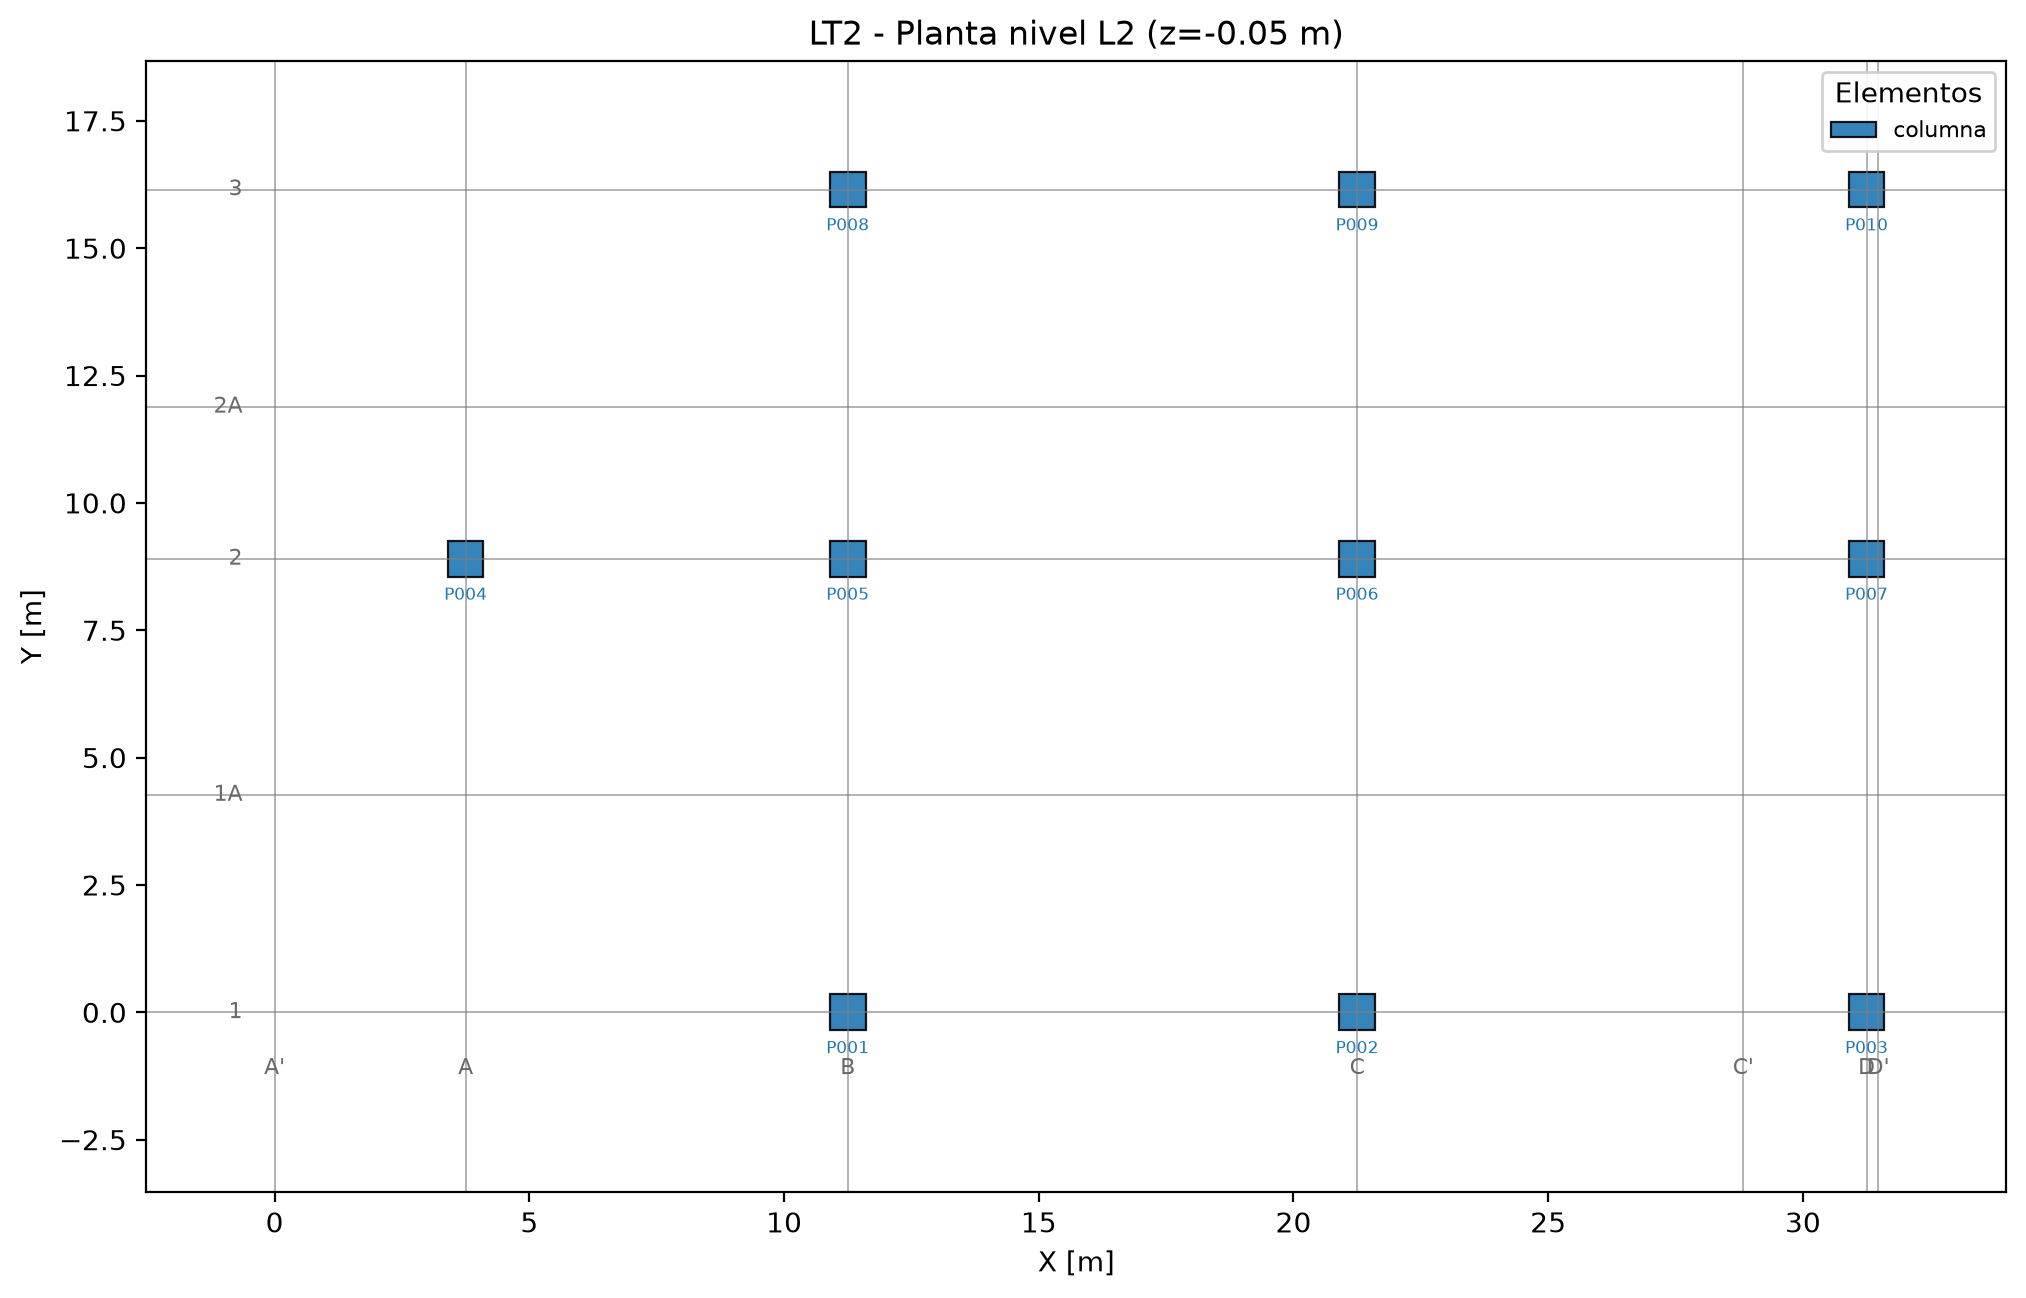
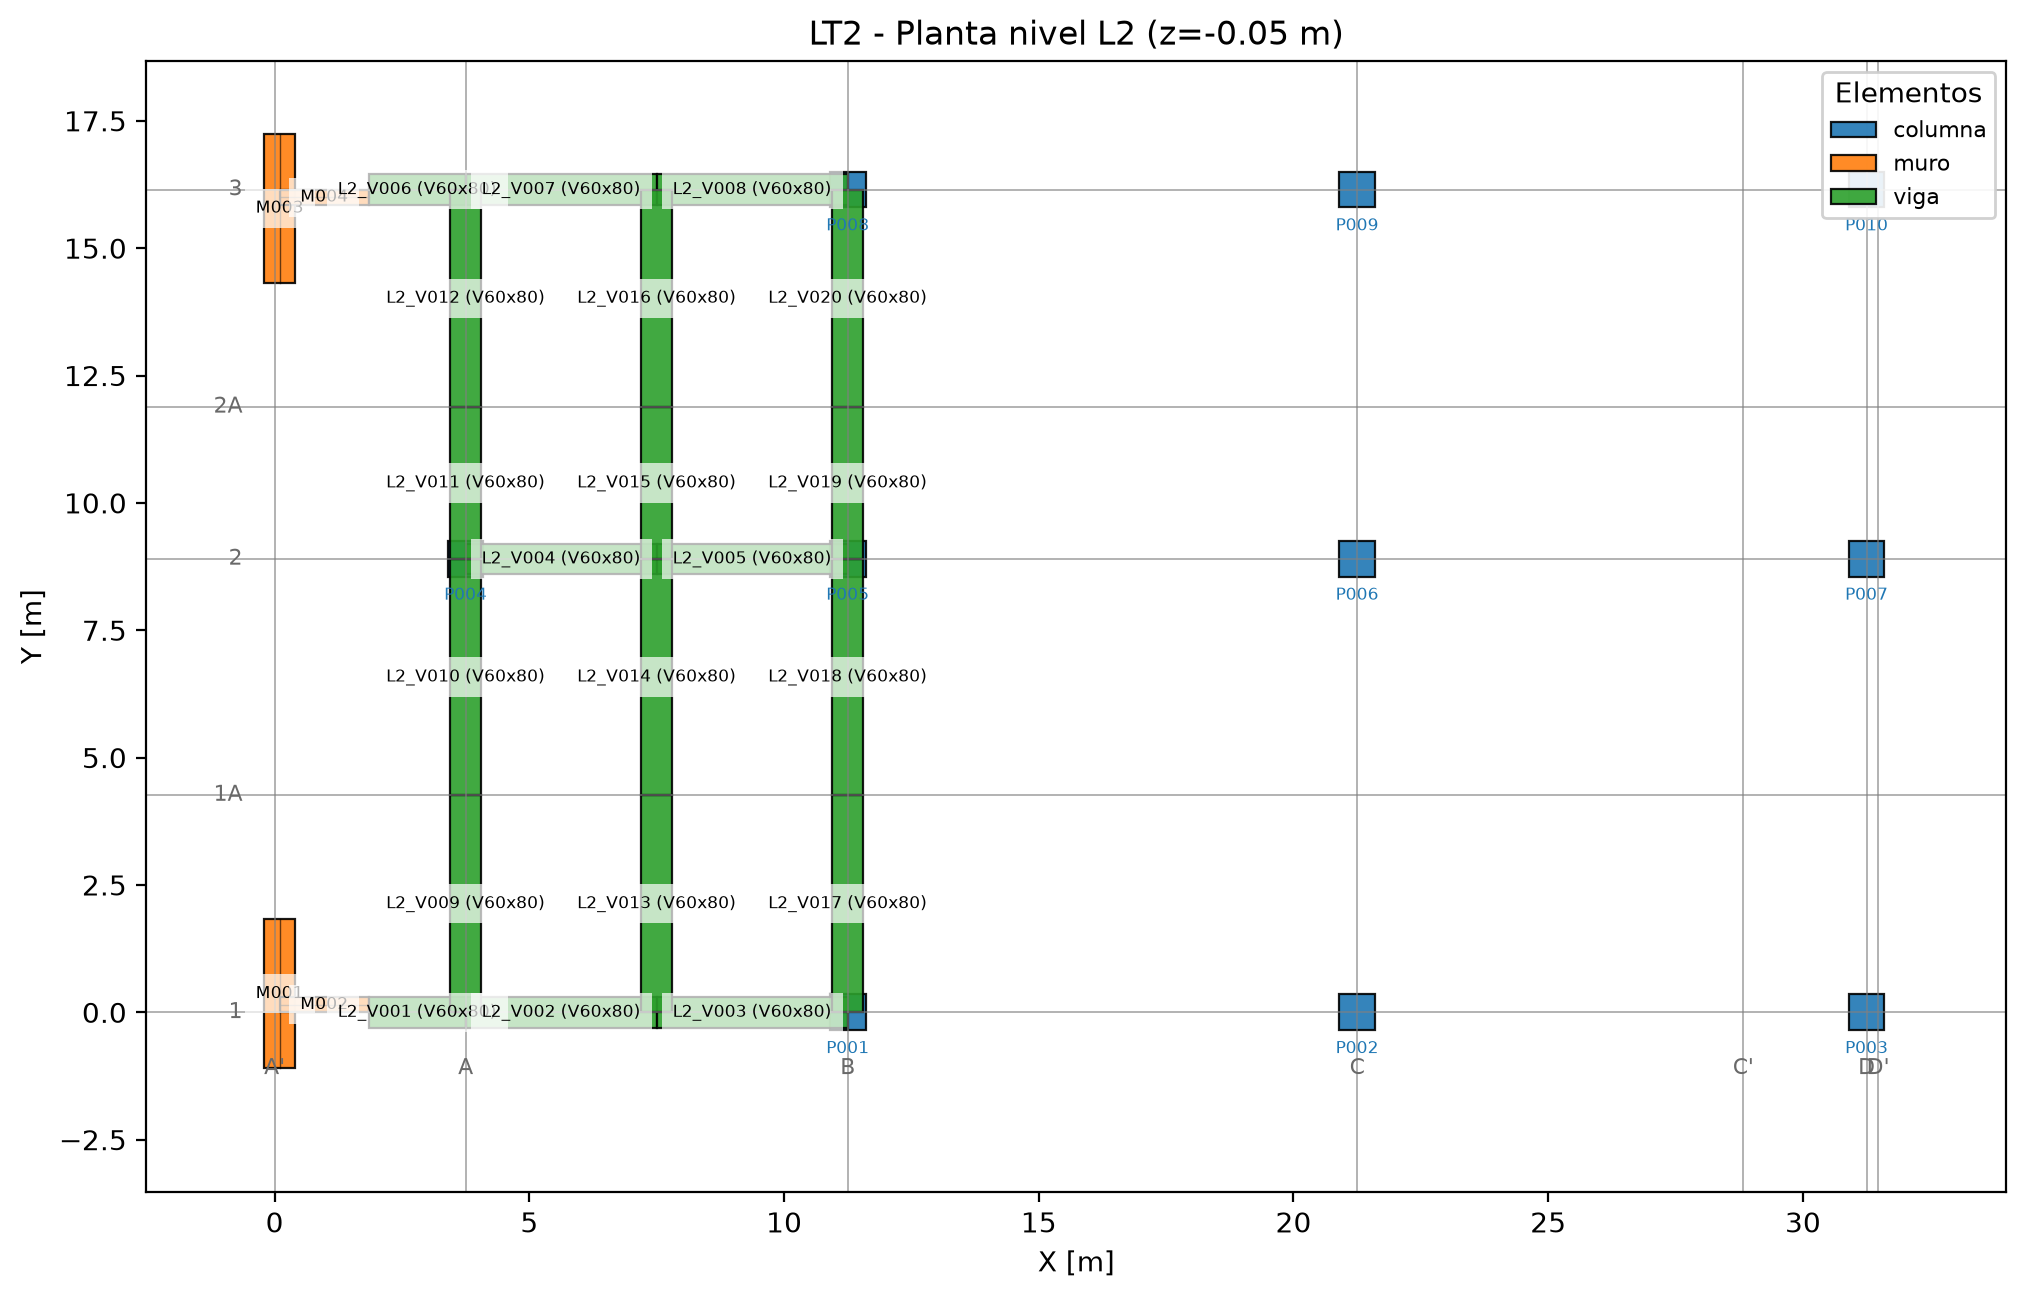
Modela vigas principales V60x80 del piso tipo LT2

Changed region(s): [[0.1244, 0.0924, 0.4664, 0.832], [0.9018, 0.0924, 0.964, 0.1849]]

diff --git a/src/check_beam_geometry.py b/src/check_beam_geometry.py
@@ -1,0 +1,180 @@
+"""Chequeos de la digitalizacion de vigas LT2.
+
+Solo lectura de data/geometry/beams_LT2.csv (con levels.csv y sections_LT2.csv).
+Para cada viga:
+  - longitud geometrica;
+  - IDs duplicados;
+  - vigas de longitud cero;
+  - niveles inexistentes;
+  - secciones inexistentes;
+  - coordenadas NaN;
+  - orientacion X/Y/inclinada;
+y ademas el numero de vigas por seccion y por nivel.
+
+No modifica datos.
+"""
+
+import math
+from pathlib import Path
+
+import numpy as np
+import pandas as pd
+
+ROOT = Path(__file__).resolve().parents[1]
+GEOM = ROOT / "data" / "geometry"
+SECT = ROOT / "data" / "sections"
+
+TOL_DUP = 1e-6
+TOL_ANGLE = 1e-3  # rad, ~0.057 deg
+
+
+def cfloat(value):
+    return pd.to_numeric(value, errors="coerce")
+
+
+def list_duplicates(values):
+    seen, dups = set(), []
+    for v in values:
+        s = str(v)
+        if s in seen and s not in dups:
+            dups.append(s)
+        seen.add(s)
+    return dups
+
+
+def beam_orientation(L, dx, dy):
+    theta = abs(math.atan2(dy, dx))
+    if theta <= TOL_ANGLE:
+        return "X"
+    if abs(math.pi / 2 - theta) <= TOL_ANGLE:
+        return "Y"
+    return "INCLINED"
+
+
+def main():
+    beams = pd.read_csv(GEOM / "beams_LT2.csv")
+    levels = pd.read_csv(GEOM / "levels.csv")
+    sections = pd.read_csv(SECT / "sections_LT2.csv")
+
+    z_level = set(levels["name"].astype(str))
+    section_ids = set(sections["section_id"].astype(str))
+
+    errors, warnings = [], []
+
+    def report(msg, is_error=True):
+        tag = "ERROR" if is_error else "WARN"
+        (errors if is_error else warnings).append(msg)
+        print(f"{tag}  - {msg}")
+
+    print("=== LT2 BEAM GEOMETRY CHECK ===")
+    print()
+    print(f"Beams registered : {len(beams)}")
+    print()
+
+    # ---------------------------------------------------------- IDs
+    print("[IDs]")
+    dup = list_duplicates(beams["beam_id"]) if len(beams) else []
+    if dup:
+        report(f"Duplicated beam IDs: {dup}")
+    else:
+        print("  OK - No duplicated beam IDs.")
+    print()
+
+    # ---------------------------------------------- por elemento
+    print("[Beams]")
+    if len(beams) == 0:
+        print("  INFO - No beams registered. (Beam digitization pending.)")
+    else:
+        for i, b in beams.iterrows():
+            bid = str(b["beam_id"])
+            x1, y1, x2, y2 = (cfloat(b[c]) for c in ("x1_m", "y1_m", "x2_m", "y2_m"))
+
+            if any(np.isnan(v) for v in (x1, y1, x2, y2)):
+                report(f"{bid}: coordenadas NaN en x/y")
+                continue
+
+            L = math.hypot(x2 - x1, y2 - y1)
+            if L <= TOL_DUP:
+                report(f"{bid}: viga de longitud cero ({L:.6f} m)")
+                continue
+
+            ori = beam_orientation(L, x2 - x1, y2 - y1)
+            if ori == "INCLINED":
+                report(f"{bid}: viga inclinada "
+                       f"({math.degrees(abs(math.atan2(y2 - y1, x2 - x1))):.3f} deg respecto a X)",
+                       is_error=False)
+            print(f"  {bid}: L={L:.3f} m, orientacion={ori}, "
+                  f"nivel={b['level']}, seccion={b['section']}")
+
+    print()
+
+    # ------------------------------------------------------- niveles
+    print("[Levels]")
+    if len(beams):
+        bad = []
+        for _, b in beams.iterrows():
+            if str(b["level"]) not in z_level:
+                bad.append(f"{b['beam_id']}: undefined level '{b['level']}'")
+        if bad:
+            for m in bad:
+                report(m)
+        else:
+            print("  OK - All referenced levels exist.")
+    else:
+        print("  - No beams to check.")
+    print()
+
+    # ----------------------------------------------------- secciones
+    print("[Sections]")
+    if len(beams):
+        bad = []
+        for _, b in beams.iterrows():
+            if str(b["section"]) not in section_ids:
+                bad.append(f"{b['beam_id']}: undefined section '{b['section']}'")
+        if bad:
+            for m in bad:
+                report(m)
+        else:
+            print("  OK - All referenced sections exist.")
+    else:
+        print("  - No beams to check.")
+    print()
+
+    # ------------------------------------------------ coordenadas NaN
+    print("[NaN coordinates]")
+    bad = []
+    for _, b in beams.iterrows():
+        for c in ("x1_m", "y1_m", "x2_m", "y2_m"):
+            if pd.isna(cfloat(b[c])):
+                bad.append(f"{b['beam_id']}: NaN en coordenada '{c}'")
+    if bad:
+        for m in bad:
+            report(m)
+    else:
+        print("  OK - No NaN coordinates in beams.")
+    print()
+
+    # --------------------------------------------- resumen por clase
+    print("[Counts]")
+    if len(beams):
+        print("  Beams by section:")
+        print(beams["section"].value_counts().to_string())
+        print()
+        print("  Beams by level:")
+        print(beams["level"].value_counts().to_string())
+    else:
+        print("  - No beams registered.")
+    print()
+
+    if len(beams) == 0:
+        warnings.append("Beam digitization pending.")
+        print("WARN - Beams digitization pending.")
+
+    print()
+    print(f"Summary: errors={len(errors)} warnings={len(warnings)}")
+    print("=== END CHECK ===")
+    return 1 if errors else 0
+
+
+if __name__ == "__main__":
+    raise SystemExit(main())

diff --git a/src/plan_view_lt2.py b/src/plan_view_lt2.py
@@ -1,10 +1,12 @@
 """Plan viewer 2D de la geometria LT2, para un nivel dado.
 
 Uso:
-    python src/plan_view_lt2.py L2
+    python src/plan_view_lt2.py L2 [--beam-labels]
 
 Lee los mismos archivos que el viewer 3D y dibuja, para el nivel indicado:
-grilla de ejes, columnas, muros y vigas (con IDs). Guarda:
+grilla de ejes, columnas, muros y vigas (con IDs). El beam_id se muestra
+centrado sobre cada viga; con --beam-labels se anade la seccion al texto.
+Guarda:
     figures/lt2_plan_<LEVEL>.png
 """
 
@@ -56,9 +58,10 @@ def spans(z, z_from, z_to, tol=1e-9):
 
 def main():
     if len(sys.argv) < 2:
-        print("Uso: python src/plan_view_lt2.py <LEVEL>   (ej: L2)")
+        print("Uso: python src/plan_view_lt2.py <LEVEL> [--beam-labels]   (ej: L2)")
         return 1
     level = sys.argv[1]
+    beam_labels = "--beam-labels" in sys.argv
 
     levels = pd.read_csv(GEOM / "levels.csv")
     grid_x = pd.read_csv(GEOM / "grid_x.csv")
@@ -185,7 +188,8 @@ def main():
                                  closed=True, alpha=0.9, label="viga"))
         else:
             ax.plot([x1, x2], [y1, y2], color="tab:green", lw=3.0, label="viga (sin seccion)")
-        ax.text((x1 + x2) / 2, (y1 + y2) / 2, str(b["beam_id"]),
+        label = str(b["beam_id"]) if not beam_labels else f"{b['beam_id']} ({b['section']})"
+        ax.text((x1 + x2) / 2, (y1 + y2) / 2, label,
                 ha="center", va="center", fontsize=6, color="black",
                 bbox=dict(facecolor="white", edgecolor="none", alpha=0.7))
 
